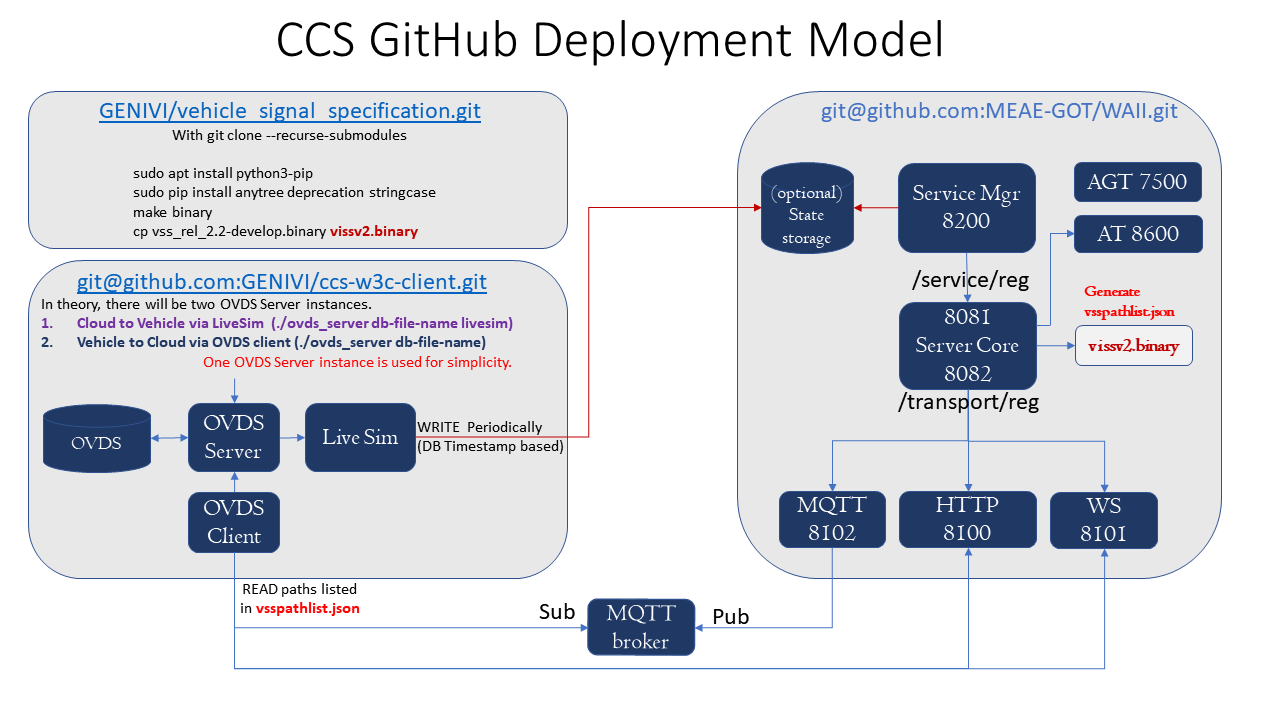
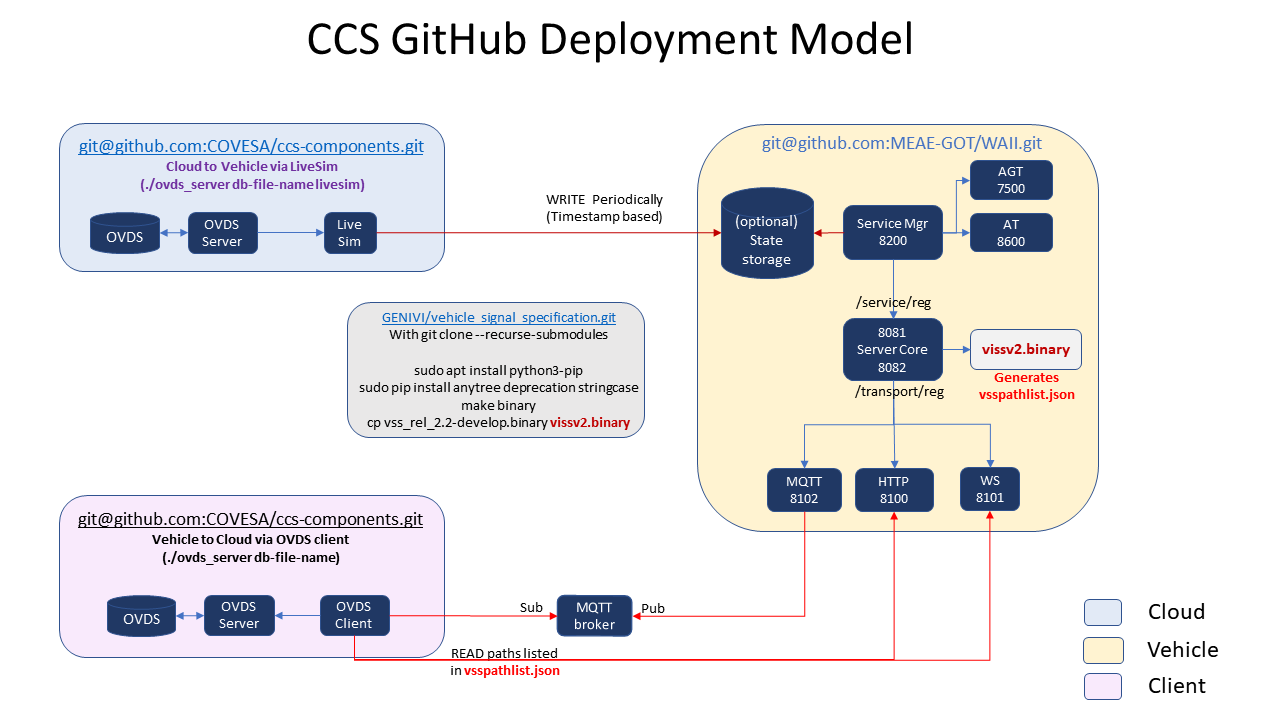
Updated document to seperate OVDS servers and define location of processes.

diff --git a/README.md b/README.md
@@ -2,8 +2,6 @@
 This project contains a number of components used in the Cloud & Connected Services (CCS) project at the Connected Vehicle Systems Alliance (COVESA).
 The figure below shows an example of this technology stack, where the components on this repo are used.
 
-![Technology stack, CCS project](docs/Tech-stack-ccs-project.jpg?raw=true)<br>
-
 <br><img src="docs/VSS_CCS_Setup.png" alt="CCS GitHub Deployment Model" width="800" height="480"/><br>
 
 Please note that in the Git deployment model figure the same OVDS DB and server are shown representing both a cloud deployment, and a vehicle deployment.
